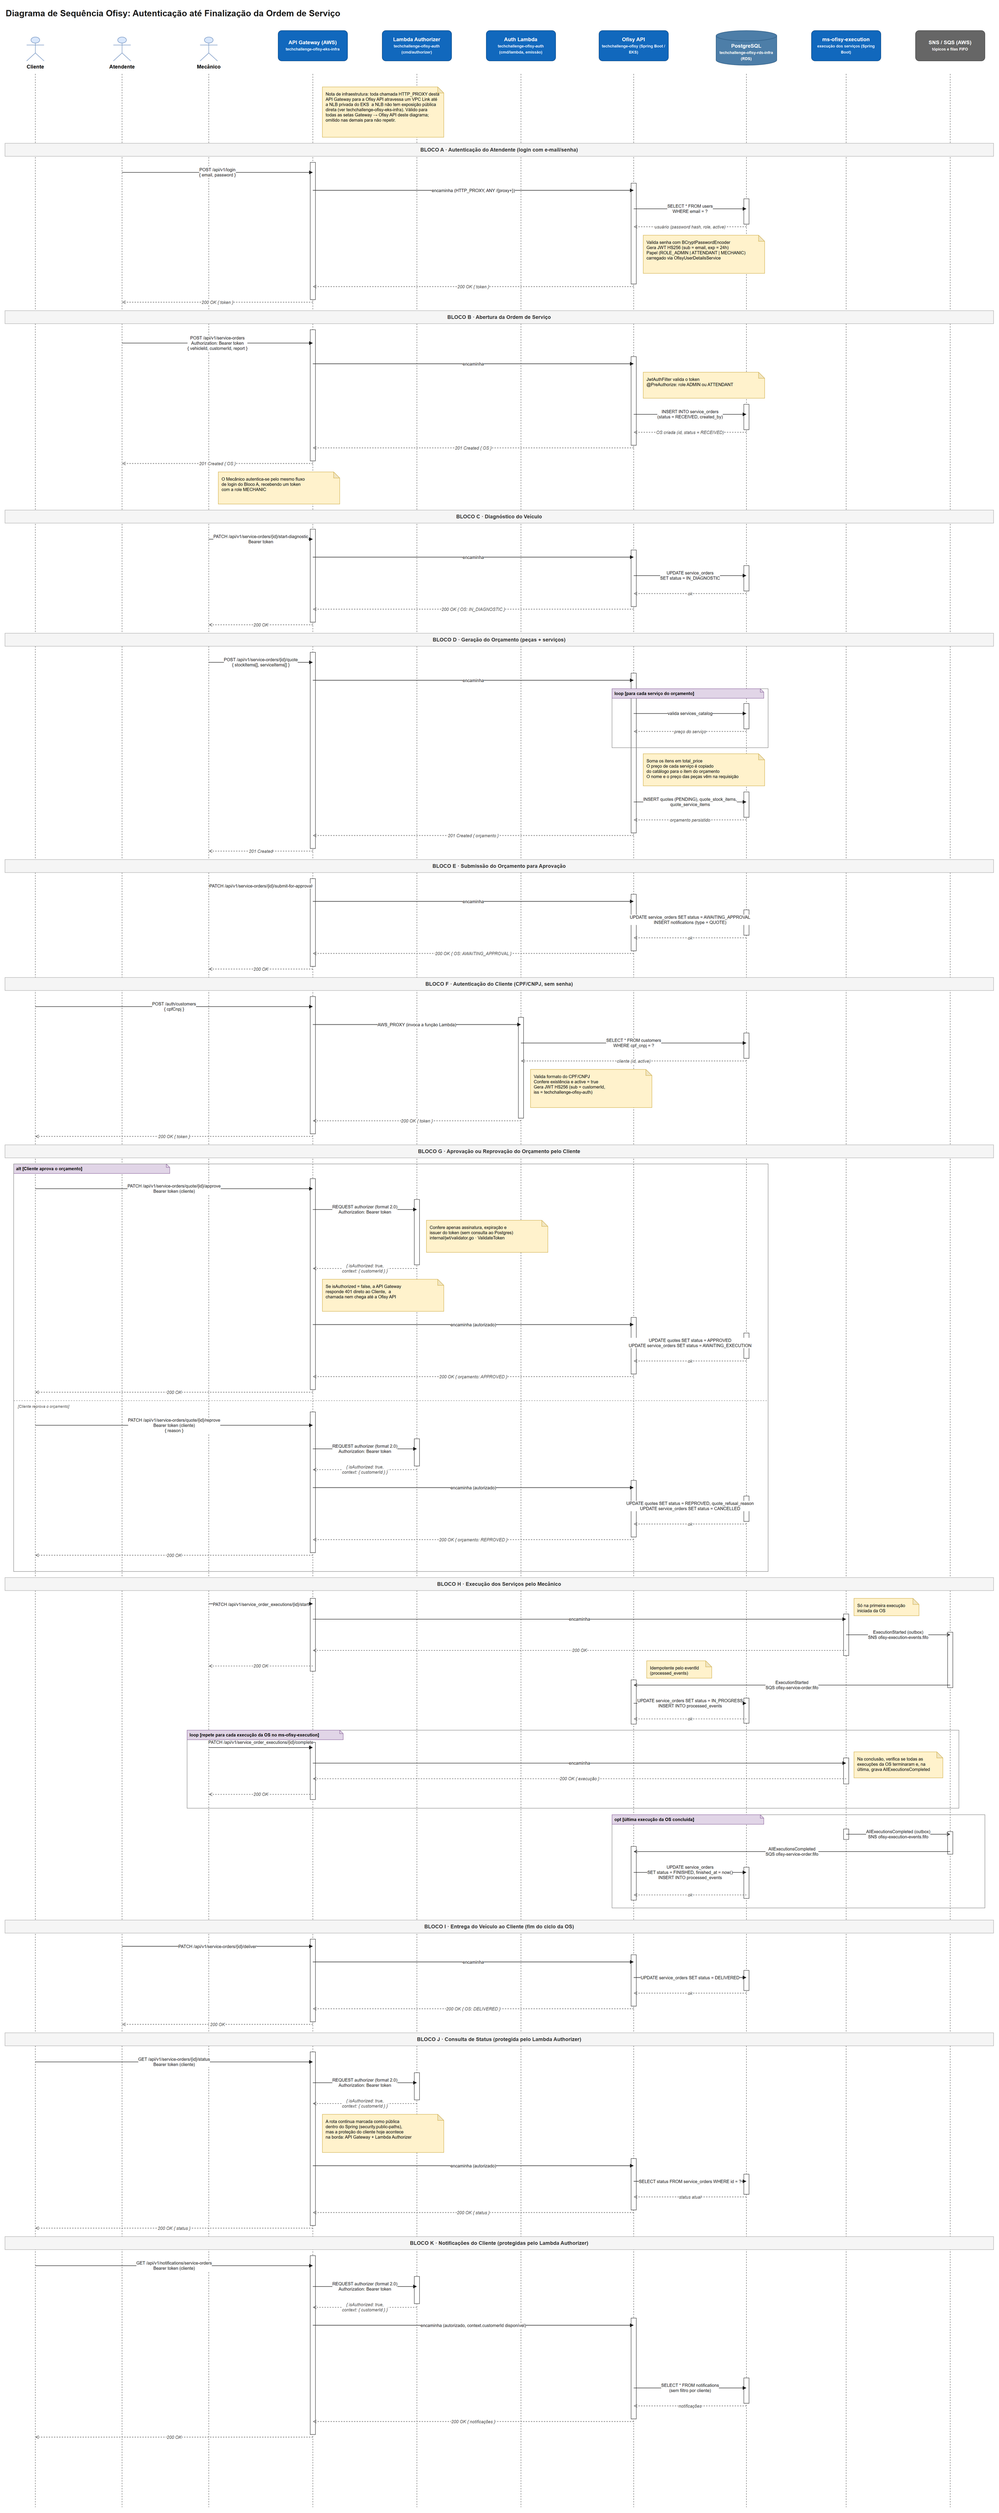
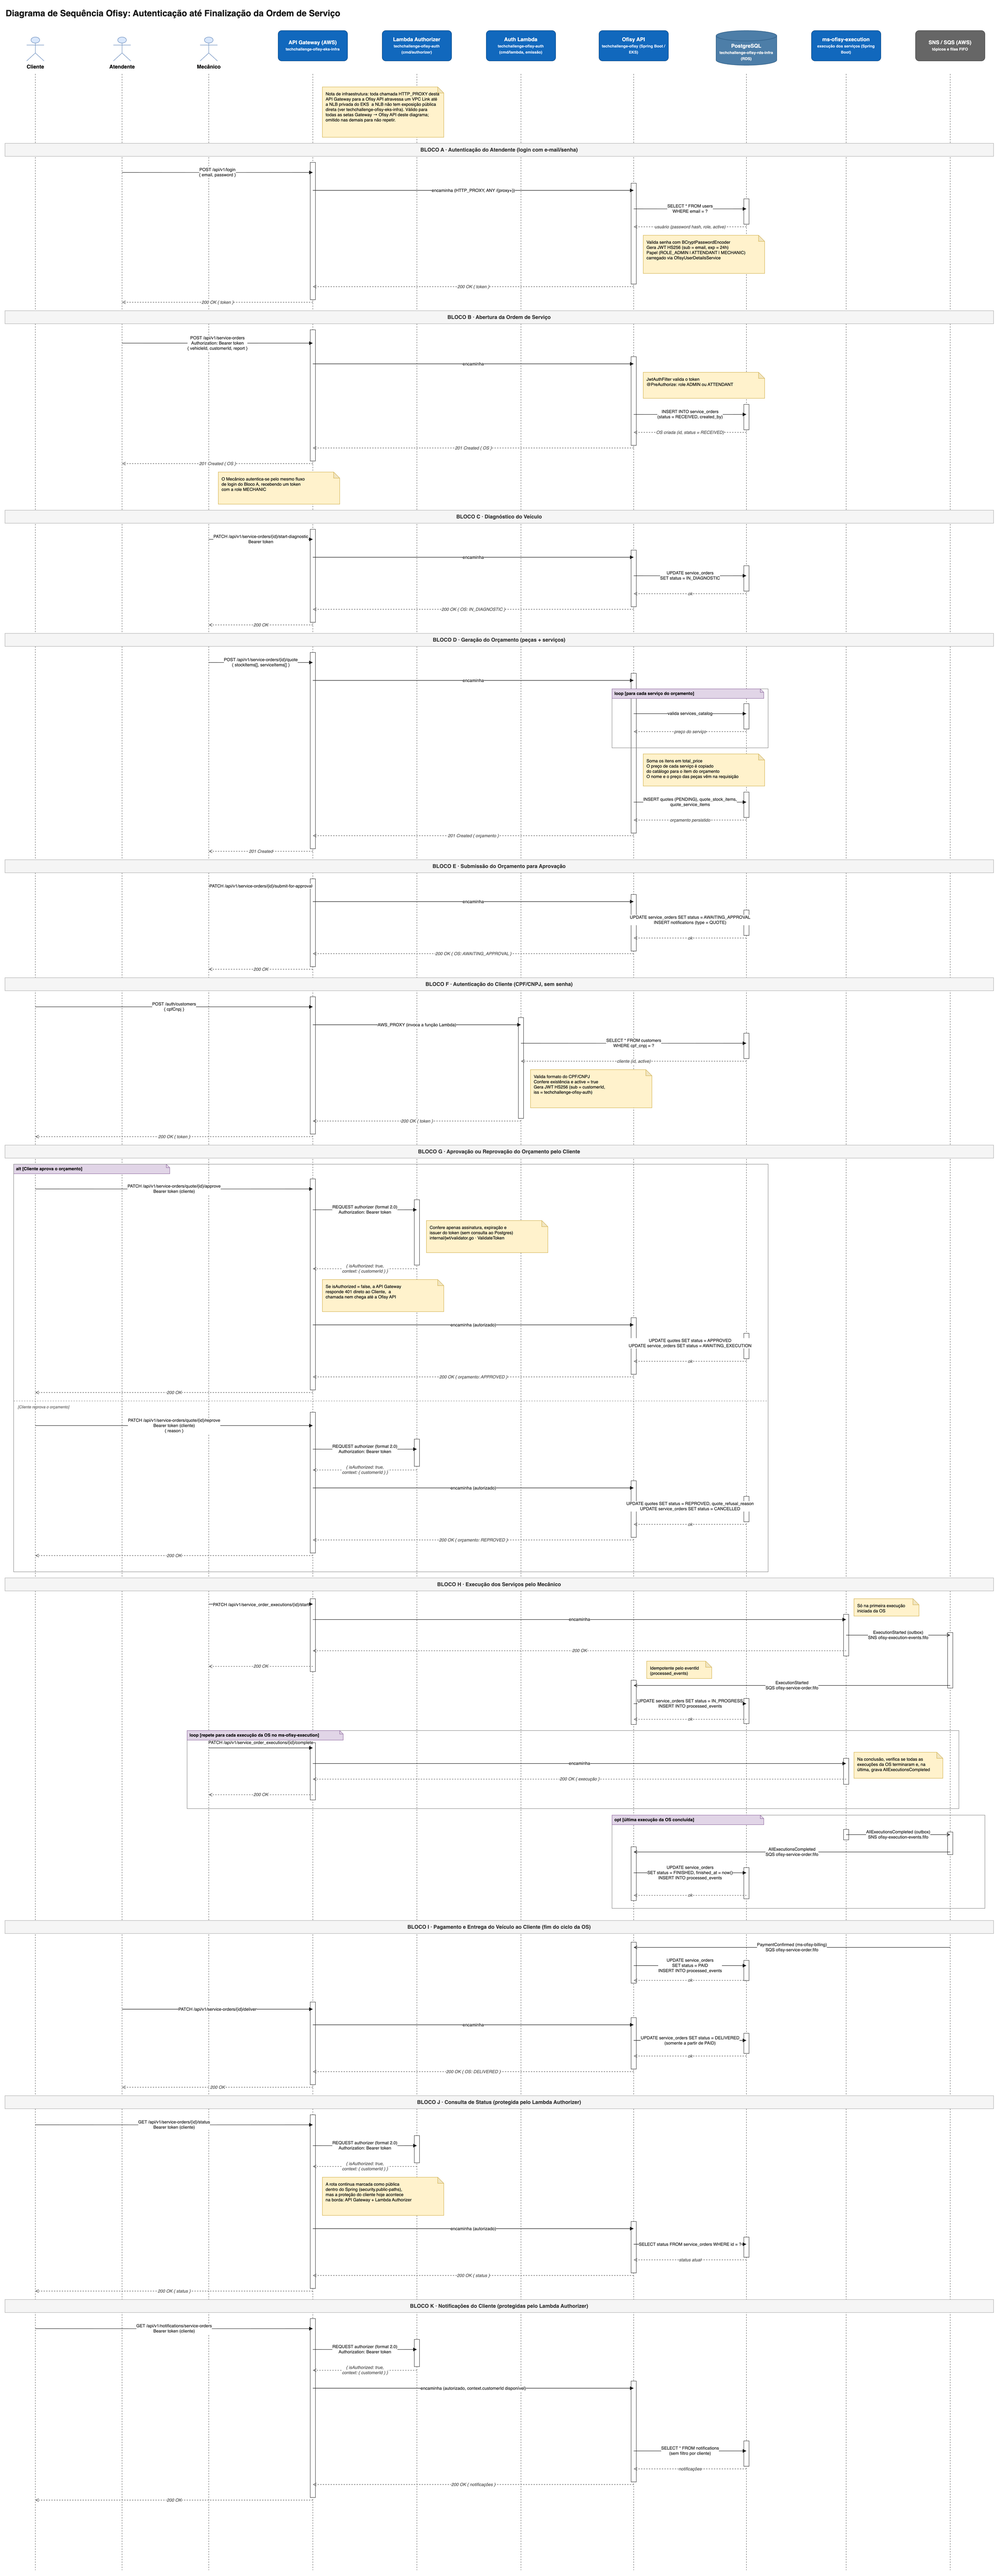
docs: documentar o pagamento antes da entrega da OS

diff --git a/docs/MESSAGING.md b/docs/MESSAGING.md
@@ -26,7 +26,7 @@ flowchart LR
 | DLQ              | `ofisy-service-order-dlq.fifo`            | `RedrivePolicy` com `maxReceiveCount=5`                                                                |
 | Fila de inspeção | `ofisy-service-order-events-inspect.fifo` | Só local. Assinada no tópico do core para ver o que foi publicado                                      |
 | Tópico assinado  | `ofisy-execution-events.fifo`             | Tópico do `ms-ofisy-execution`. A fila do core recebe só `ExecutionStarted` e `AllExecutionsCompleted` |
-| Tópico assinado  | `ofisy-billing-events.fifo`               | Tópico do `ms-ofisy-billing`. A fila do core recebe só `QuoteSentForApproval`, `QuoteApproved` e `QuoteCancelled` |
+| Tópico assinado  | `ofisy-billing-events.fifo`               | Tópico do `ms-ofisy-billing`. A fila do core recebe só `QuoteSentForApproval`, `QuoteApproved`, `QuoteCancelled` e `PaymentConfirmed` |
 | Tópico assinado  | `ofisy-stock-events.fifo`                 | Tópico do `ms-ofisy-stock`. A fila do core recebe só `StockRefunded` |
 
 A fila do core assina os tópicos `ofisy-execution-events.fifo`, do `ms-ofisy-execution`, `ofisy-billing-events.fifo`, do `ms-ofisy-billing`, e `ofisy-stock-events.fifo`, do `ms-ofisy-stock`, com `RawMessageDelivery=true` e `FilterPolicy` por `type` no corpo da mensagem (`FilterPolicyScope=MessageBody`), recebendo só os tipos que têm handler. Os eventos de outros serviços entram da mesma forma, junto com o primeiro handler de cada um.
@@ -69,13 +69,15 @@ Todo evento segue o mesmo envelope (`adapters/listeners/dto/EventEnvelope.java`)
 | `QuoteApproved`          | `ms-ofisy-billing`   | `QuoteApprovedHandler`          | Move a OS de `AWAITING_APPROVAL` para `AWAITING_EXECUTION`                                    |
 | `QuoteCancelled`         | `ms-ofisy-billing`   | `QuoteCancelledHandler`         | Cancela a OS e publica `ServiceOrderCancelled`                                                |
 | `StockRefunded`          | `ms-ofisy-stock`     | `StockRefundedHandler`          | Cancela a OS e publica `ServiceOrderCancelled`                                                |
+| `PaymentConfirmed`       | `ms-ofisy-billing`   | `PaymentConfirmedHandler`       | Move a OS de `FINISHED` para `PAID`, liberando a entrega                                      |
 
-O core só usa o `serviceOrderId` do envelope, então o payload dos eventos é ignorado. O tratamento depende do status em que a OS está quando o evento chega:
+O core só usa o `serviceOrderId` do envelope, então o payload dos eventos é ignorado. O `PaymentConfirmed`, por exemplo, traz `paymentId` e `amount` para outros consumidores, mas o core não lê esses campos. O tratamento depende do status em que a OS está quando o evento chega:
 
 - **No status esperado**: aplica a transição e registra o `eventId` em `processed_events`.
 - **Já à frente do evento** (`IN_PROGRESS` ou status final para o `ExecutionStarted`; `FINISHED`, `DELIVERED` ou `CANCELLED` para o `AllExecutionsCompleted`): só registra o evento, que é confirmado sem mudar a OS.
 - **`AllExecutionsCompleted` com a OS ainda em `AWAITING_EXECUTION`** (o `ExecutionStarted` se perdeu, por exemplo na DLQ): aplica as duas transições, `IN_PROGRESS` e `FINISHED`.
 - **Eventos do orçamento**: seguem a mesma regra. `QuoteSentForApproval` só registra o evento quando a OS já está em `AWAITING_APPROVAL` ou à frente (um orçamento editado volta a ser enviado para aprovação, então o evento pode chegar mais de uma vez por OS). `QuoteApproved` só registra quando a OS já está em `AWAITING_EXECUTION` ou à frente. `QuoteCancelled` e `StockRefunded` só registram quando a OS já está em `FINISHED`, `DELIVERED` ou `CANCELLED`.
+- **Pagamento**: `PaymentConfirmed` só registra o evento quando a OS já está em `PAID` ou `DELIVERED`. Com a OS antes de `FINISHED`, a mensagem volta para a fila até a OS ser finalizada. Com a OS `CANCELLED`, a transição é inválida e a mensagem acaba na DLQ, porque um pagamento de OS cancelada indica inconsistência entre os serviços. A entrega (`PATCH /service-orders/{id}/deliver`) só aceita OS em `PAID`.
 - **Reprovação do orçamento**: o core não ouve o `QuoteReproved`. O estoque devolve os itens e publica o `StockRefunded`, e é ele que leva o core a cancelar a OS. O `StockRefunded` também chega depois de um cancelamento feito no próprio core (pelo caminho `ServiceOrderCancelled` → `AllExecutionsCancelled`), e aí a OS já está `CANCELLED` e o evento só é registrado.
 - **Atrás do evento** (antes de `AWAITING_EXECUTION`): a transição é inválida, a exceção impede o ack e a mensagem volta para a fila até a OS alcançar o status ou, depois de 5 recebimentos, ir para a DLQ.
 - **OS inexistente**: a mensagem vai para a DLQ de propósito, porque indica inconsistência entre os serviços.
@@ -194,7 +196,7 @@ Os testes de integração (`integration/IntegrationTestBase`) sobem um LocalStac
 | `MessageTraceContextReaderTest`  | Leitura do atributo `_datadog` como `SdkBytes`, texto ou bytes, e atributo ausente ou ilegível                             |
 | `ServiceOrderEventsListenerTest` | Despacho pelo `type`, tipo sem handler, falha do handler, `type` duplicado entre handlers e consumo dentro do trace da mensagem |
 | `OutboxEventPublisherIT`         | Evento gravado no outbox chega na fila de inspeção e fica com `published_at`                                               |
-| `ServiceOrderEventsListenerIT`   | Evento sem handler é confirmado, `ExecutionStarted` repetido move a OS uma vez só, `AllExecutionsCompleted` finaliza a OS e publica `ServiceOrderFinished`, e os eventos do orçamento levam a OS a `AWAITING_APPROVAL`, `AWAITING_EXECUTION` ou `CANCELLED` |
+| `ServiceOrderEventsListenerIT`   | Evento sem handler é confirmado, `ExecutionStarted` repetido move a OS uma vez só, `AllExecutionsCompleted` finaliza a OS e publica `ServiceOrderFinished`, os eventos do orçamento levam a OS a `AWAITING_APPROVAL`, `AWAITING_EXECUTION` ou `CANCELLED`, e `PaymentConfirmed` repetido move a OS para `PAID` uma vez só |
 
 ---
 

diff --git a/README.md b/README.md
@@ -212,7 +212,7 @@ O token traz o email do usuário no `sub` e a role na claim `role`. Os microsser
 
 As rotas de estoque (`/api/v1/stocks`) e de movimentações (`/api/v1/stock-movements`) não ficam mais neste repositório: elas são servidas pelo [ms-ofisy-stock](https://github.com/15SOAT-FIAP/ms-ofisy-stock). O usuário STOCKMAN continua sendo criado aqui e usa o mesmo token para acessar essas rotas no microsserviço.
 
-As rotas de orçamento (`/api/v1/quotes`) e de cobrança (`/api/v1/payments`) não ficam mais neste repositório: elas são servidas pelo [ms-ofisy-billing](https://github.com/15SOAT-FIAP/ms-ofisy-billing). O core continua dono do status da OS e o atualiza ao receber `QuoteSentForApproval`, `QuoteApproved`, `QuoteReproved` e `QuoteCancelled` do Billing. Quando a OS é finalizada, publica `ServiceOrderFinished`, que dispara a cobrança. A autenticação de funcionários continua usando o JWT emitido pelo Core.
+As rotas de orçamento (`/api/v1/quotes`) e de cobrança (`/api/v1/payments`) não ficam mais neste repositório: elas são servidas pelo [ms-ofisy-billing](https://github.com/15SOAT-FIAP/ms-ofisy-billing). O core continua dono do status da OS e o atualiza ao receber `QuoteSentForApproval`, `QuoteApproved`, `QuoteCancelled` e `PaymentConfirmed` do Billing. Quando a OS é finalizada, publica `ServiceOrderFinished`, que dispara a cobrança. O `PaymentConfirmed` move a OS para `PAID`, e só a partir daí o veículo pode ser entregue. A autenticação de funcionários continua usando o JWT emitido pelo Core.
 
 As rotas de notificações (`/api/v1/notifications`) são servidas pelo [ms-ofisy-notification](https://github.com/15SOAT-FIAP/ms-ofisy-notification). O microsserviço cria o aviso de orçamento ao receber `QuoteSentForApproval` do Billing. A autenticação de funcionários continua usando o JWT emitido pelo Core.
 

diff --git a/docs/SEQUENCE-DIAGRAM.md b/docs/SEQUENCE-DIAGRAM.md
@@ -4,7 +4,7 @@ Diagrama de sequência que documenta o fluxo de ponta a ponta da aplicação Ofi
 
 Três atores envolvidos: **Cliente**, **Atendente** e **Mecânico**
 Seis componentes de infraestrutura envolvidos: o **API Gateway**, a **Lambda de autenticação** (`techchallenge-ofisy-auth`), a **API Ofisy** (`techchallenge-ofisy`, rodando no EKS), o **PostgreSQL** (RDS, `techchallenge-ofisy-rds-infra`), o **`ms-ofisy-execution`** e o **SNS/SQS**, por onde os eventos trafegam entre os dois serviços.
-O fluxo está organizado em 10 blocos sequenciais: login do Atendente, abertura da OS, diagnóstico, geração de orçamento, submissão para aprovação, autenticação do Cliente via CPF/CNPJ, **aprovação ou reprovação do orçamento pelo Cliente**, execução dos serviços no `ms-ofisy-execution`, finalização automática da OS (a Ofisy API consome `ExecutionStarted` e `AllExecutionsCompleted` e atualiza o status) e entrega do veículo.
+O fluxo está organizado em 10 blocos sequenciais: login do Atendente, abertura da OS, diagnóstico, geração de orçamento, submissão para aprovação, autenticação do Cliente via CPF/CNPJ, **aprovação ou reprovação do orçamento pelo Cliente**, execução dos serviços no `ms-ofisy-execution`, finalização automática da OS (a Ofisy API consome `ExecutionStarted` e `AllExecutionsCompleted` e atualiza o status), confirmação do pagamento (a Ofisy API consome o `PaymentConfirmed` do `ms-ofisy-billing` e move a OS para `PAID`) e entrega do veículo, permitida somente a partir de `PAID`.
 Cada bloco indica o endpoint chamado, o componente responsável e a interação com o banco de dados.
 
 ![Diagrama de Sequência](resources/sequence-diagram.png)

diff --git a/docs/DATABASE.md b/docs/DATABASE.md
@@ -110,7 +110,7 @@ de registros.
 ```sql
 -- V11
 CHECK (status IN ('RECEIVED','IN_DIAGNOSTIC','AWAITING_APPROVAL','AWAITING_EXECUTION',
-                   'IN_PROGRESS','FINISHED','DELIVERED','CANCELLED'))
+                   'IN_PROGRESS','FINISHED','PAID','DELIVERED','CANCELLED'))
 ```
 
 - **Motivo:** a transição de estados de `ServiceOrder` já é validada no
